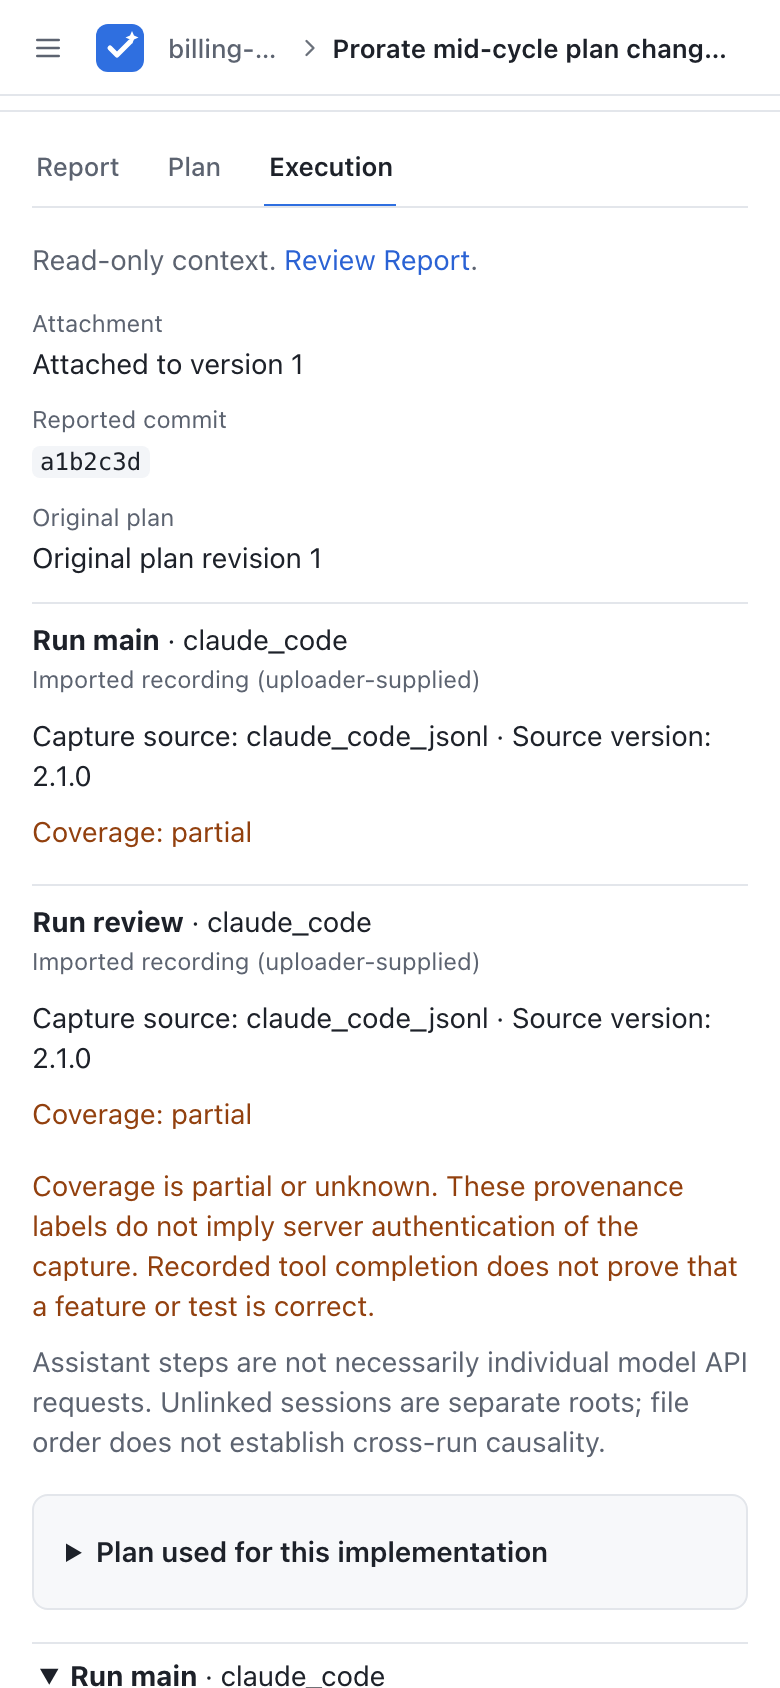
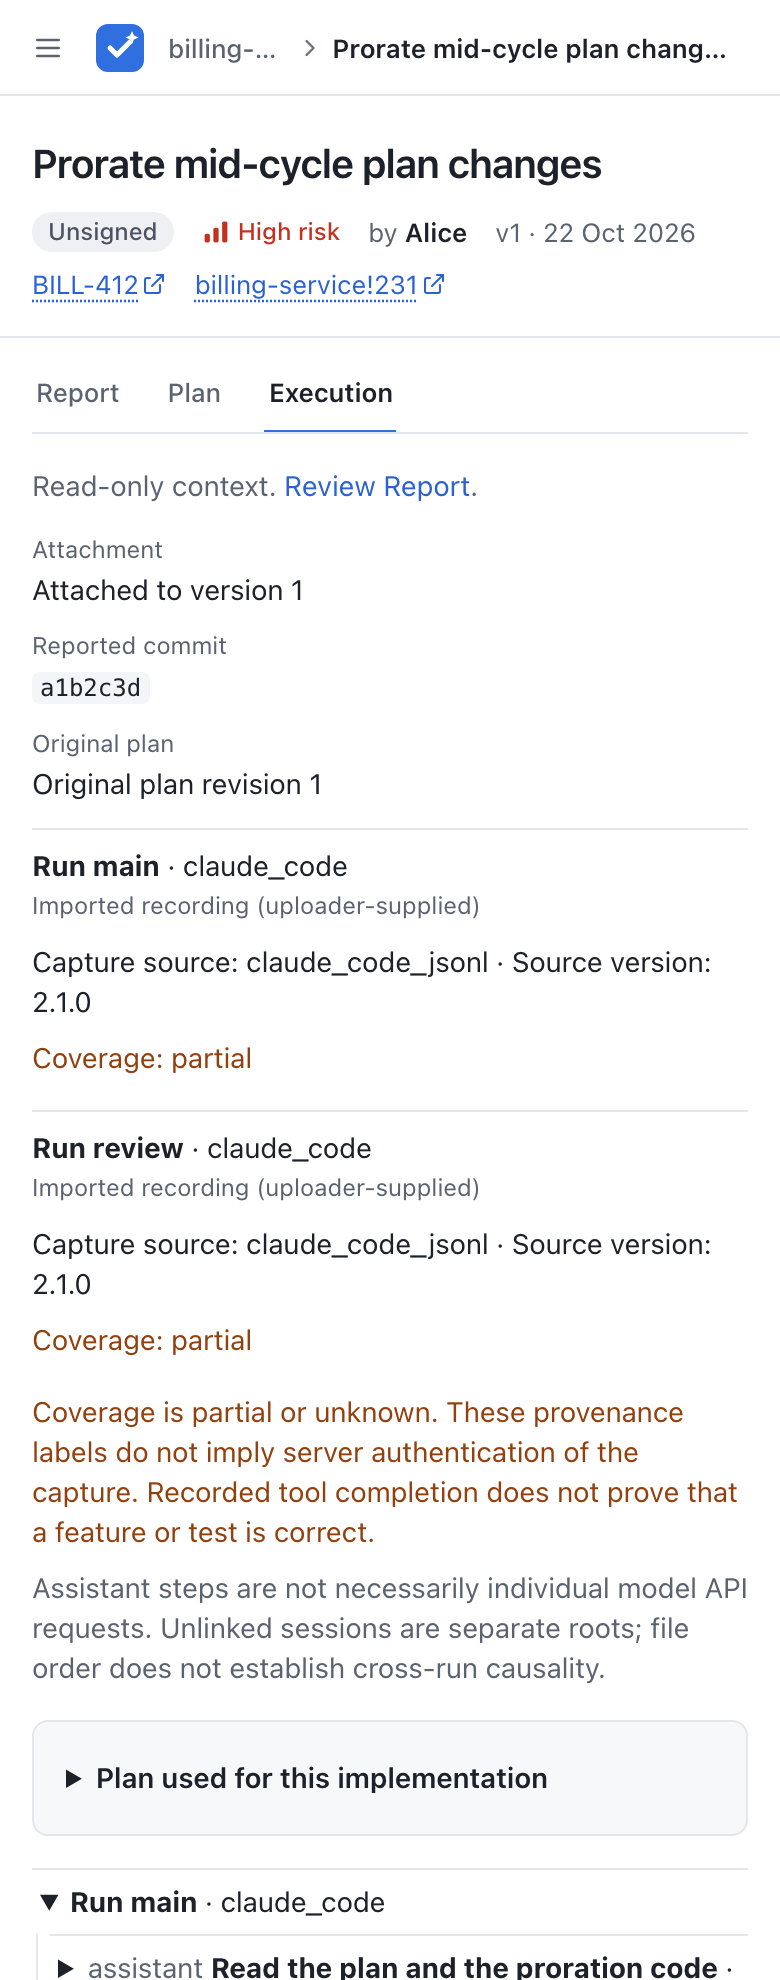
docs: show the header merge request link in the Execution screenshots (#14)
* docs: show the header merge request link in the Execution screenshots

* docs: pin the sample date in the Execution screenshots and explain header links

diff --git a/tests/test_sample.py b/tests/test_sample.py
@@ -26,5 +26,8 @@ def test_sample_uses_example_author(tmp_path):
     payload = json.loads(args[args.index("-d") + 1])
     assert payload["author"] == "Alice"
     assert payload["links"] == [
-        {"label": "Merge request !231", "url": "https://example.com/code/merge_requests/231"}
+        {
+            "label": "Merge request !231",
+            "url": "https://gitlab.example.com/billing/billing-service/-/merge_requests/231",
+        }
     ]

diff --git a/docs/reviewing.md b/docs/reviewing.md
@@ -59,9 +59,11 @@ Start with the attachment version, reported commit, original plan revision when 
 
 Expand the indented call tree to read kind, title, status and known timing. Details show any recorded plain-text input/output, explanation, exit code and source reference. Missing data says **Not recorded**, rather than implying zero duration or success. Parent links appear only when the source explicitly provides them; separate roots and file order do not establish cross-run causality. Stable event links reveal their ancestors when opened.
 
-![Execution tab: attachment version, reported commit and plan revision, two imported Claude Code runs with partial coverage warnings, and the call tree with a failed pytest run opened next to the plan used for this implementation](images/execution.png)
+The report header shows the ticket and any merge or pull request from the report's links as a short label made from the URL, such as `billing-service!231`. The labels the agent sent stay in the **Links** line at the bottom. See [API](api.md) for the rules.
 
-<img src="images/mobile-execution.png" width="260" alt="Execution tab on a phone: the run labels and warnings, then the collapsed plan above the call tree">
+![Execution tab: the ticket and merge request links in the header, then the attachment version, reported commit and plan revision, two imported Claude Code runs with partial coverage warnings, and the call tree with a failed pytest run opened next to the plan used for this implementation](images/execution.png)
+
+<img src="images/mobile-execution.png" width="260" alt="Execution tab on a phone: the ticket and merge request links in the header, the run labels and warnings, then the collapsed plan above the call tree">
 
 **Plan used for this implementation** shows the exact bound plan, not today's latest plan. On desktop it can sit beside the tree; on mobile it precedes it. A later revision is linked separately with an explanation that the evidence was attached against the older plan. A plan-only update can therefore show an older trace binding alongside a newer current plan. No plan is a valid state, and there is no automatic score claiming all plan steps were covered.
 

diff --git a/docs/api.md b/docs/api.md
@@ -26,7 +26,7 @@ curl -sS --fail-with-body -X POST http://localhost:8000/api/reports \
     "risk": "high",
     "body": "## Intent\nCharge upgrades by remaining days.\n\n## Verification\nUnit tests pass.\n\n## Rollback\nRevert the merge request.\n\n## Security impact\nNone.",
     "ticket_url": "https://example.com/tickets/BILL-412",
-    "links": [{"label": "Merge request", "url": "https://example.com/code/merge_requests/231"}],
+    "links": [{"label": "Merge request", "url": "https://gitlab.example.com/billing/billing-service/-/merge_requests/231"}],
     "author": "Alice",
     "author_id": "alice@example.com",
     "reviewers": ["bob@example.com"],
@@ -183,7 +183,7 @@ Writes use the existing token and owner checks; members cannot add evidence to a
   "title": "Prorate mid-cycle plan changes",
   "risk": "high",
   "ticket_url": "https://example.com/tickets/BILL-412",
-  "links": [{"label": "Merge request", "url": "https://example.com/code/merge_requests/231"}],
+  "links": [{"label": "Merge request", "url": "https://gitlab.example.com/billing/billing-service/-/merge_requests/231"}],
   "author": "Alice",
   "author_id": "alice@example.com",
   "reviewers": ["bob@example.com"],

diff --git a/docs/report-template.md b/docs/report-template.md
@@ -72,4 +72,4 @@ None. The change only reads prices and dates that the handler already loads. It 
 - Ticket: [BILL-412](https://example.com/tickets/BILL-412)
 - Staging: [plan change page](https://example.com/staging/plan-change)
 - Notebook: [proration golden](https://example.com/notebooks/proration-golden)
-- Code: [merge request !231](https://example.com/code/merge_requests/231)
+- Code: [merge request !231](https://gitlab.example.com/billing/billing-service/-/merge_requests/231)
